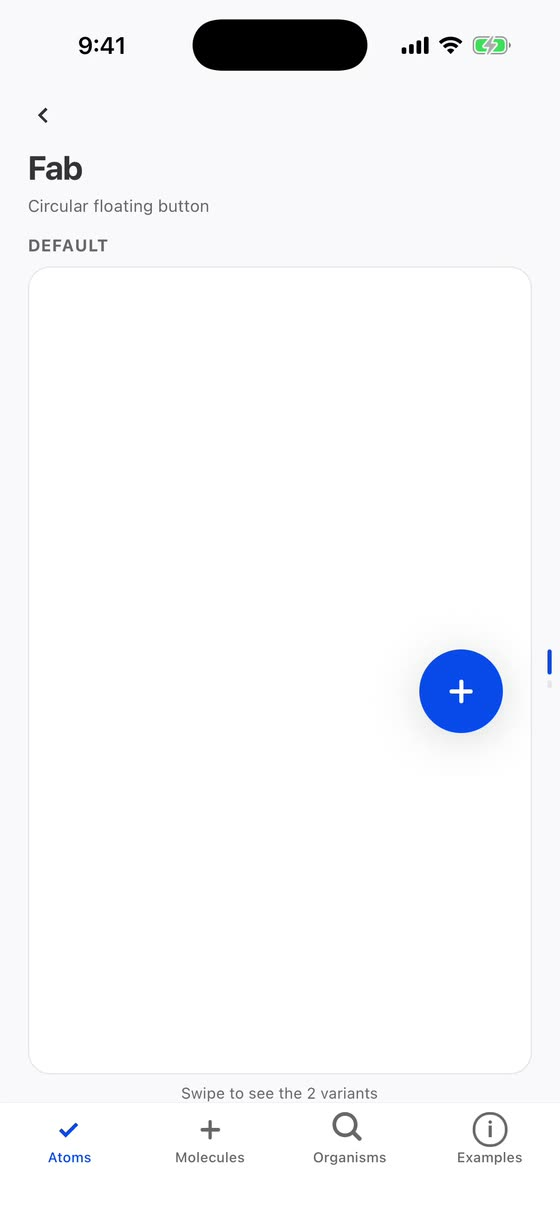
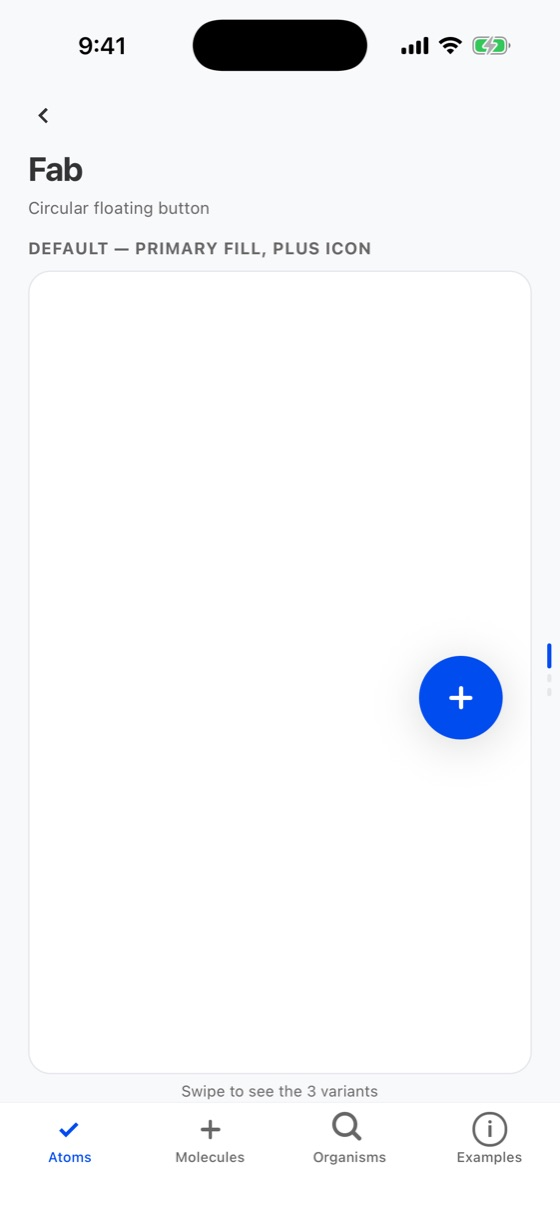
docs(fab): variant stills, Spanish props, changelog with migration step

diff --git a/src/data/changelog.ts b/src/data/changelog.ts
@@ -63,6 +63,15 @@ export const releases: Release[] = [
     changes: {
       breaking: [
         {
+          component: 'Fab',
+          items: [
+            {
+              en: 'By default the button now sits above the safe area (`bottom` + `insets.bottom`). If you added the inset yourself, drop it; above a tab bar, pass `safeArea={false}`.',
+              es: 'Por defecto el botón ahora queda por encima del safe area (`bottom` + `insets.bottom`). Si sumabas el inset a mano, quítalo; encima de una tab bar, pasa `safeArea={false}`.',
+            },
+          ],
+        },
+        {
           component: 'Setup',
           page: '/getting-started',
           items: [
@@ -188,6 +197,19 @@ export const releases: Release[] = [
             {
               en: '`testID`, and `style` accepts style arrays.',
               es: '`testID`, y `style` acepta arrays de estilos.',
+            },
+          ],
+        },
+        {
+          component: 'Fab',
+          items: [
+            {
+              en: '`safeArea` (default `true`) adds the safe-area insets to `bottom`/`right`, so the button clears the home indicator. Pass `false` above a NavigationBar or tab bar.',
+              es: '`safeArea` (por defecto `true`) suma los insets del safe area a `bottom`/`right`, así el botón no queda sobre la barra de inicio. Pasa `false` encima de un NavigationBar o tab bar.',
+            },
+            {
+              en: 'Adds `testID`.',
+              es: 'Se agrega `testID`.',
             },
           ],
         },
@@ -395,6 +417,15 @@ export const releases: Release[] = [
           ],
         },
         {
+          component: 'Fab',
+          items: [
+            {
+              en: 'With a custom `color`, the icon picks black or white for contrast (a light fill used to get a white, unreadable icon).',
+              es: 'Con un `color` propio, el ícono elige negro o blanco según el contraste (un relleno claro tenía un ícono blanco ilegible).',
+            },
+          ],
+        },
+        {
           component: 'Icons',
           page: '/components/icon-button',
           items: [
@@ -568,6 +599,18 @@ cd ios && pod install`,
   <UIProvider mode="system" insets={insets}>{app}</UIProvider>
 </SafeAreaProvider>`,
         after: `<UIProvider defaultMode="system">{app}</UIProvider>`,
+      },
+      {
+        title: {
+          en: 'Stop adding the inset to Fab',
+          es: 'Deja de sumar el inset al Fab',
+        },
+        body: {
+          en: 'Fab now clears the safe area on its own. Remove `insets.bottom` from `bottom`; if the Fab sits above a tab bar, pass `safeArea={false}` so the inset is not counted twice.',
+          es: 'Fab ahora respeta el safe area por sí solo. Quita `insets.bottom` de `bottom`; si el Fab está encima de una tab bar, pasa `safeArea={false}` para no contar el inset dos veces.',
+        },
+        before: `<Fab bottom={insets.bottom + 20} onPress={add} accessibilityLabel="Add" />`,
+        after: `<Fab onPress={add} accessibilityLabel="Add" />`,
       },
     ],
   },

diff --git a/demos/Fab.demo.tsx b/demos/Fab.demo.tsx
@@ -1,25 +1,49 @@
 import React from 'react';
 import { View } from 'react-native';
-import { Fab } from 'orn-ui';
+import { Fab, useColors } from 'orn-ui';
 import { VariantList, type VariantDef } from './VariantList';
+
+// En el catálogo el Fab vive dentro de una tarjeta, no al pie de la pantalla:
+// por eso safeArea={false} y bottom/right en 0. En una pantalla real se deja
+// el default y el botón queda por encima de la barra de inicio.
+function Frame({ children }: { children: React.ReactNode }) {
+  return <View style={{ height: 96 }}>{children}</View>;
+}
+
+function CustomColor() {
+  const colors = useColors();
+  return (
+    <Frame>
+      <Fab
+        onPress={() => {}}
+        accessibilityLabel="Add expense"
+        color={colors.warning}
+        safeArea={false}
+        bottom={0}
+        right={0}
+      />
+    </Frame>
+  );
+}
 
 export function FabDemo() {
   // #region demo
   const variants: VariantDef[] = [
     {
-      label: 'Default',
+      label: 'default — primary fill, plus icon',
       content: (
-        <View style={{ height: 90 }}>
-          <Fab onPress={() => {}} accessibilityLabel="Create invoice" bottom={0} right={0} />
-        </View>
+        <Frame>
+          <Fab onPress={() => {}} accessibilityLabel="Create invoice" safeArea={false} bottom={0} right={0} />
+        </Frame>
       ),
     },
+    { label: 'color — the icon picks black or white for contrast', content: <CustomColor /> },
     {
-      label: 'Custom',
+      label: 'size and iconName',
       content: (
-        <View style={{ height: 90 }}>
-          <Fab onPress={() => {}} accessibilityLabel="Search" iconName="search" color="#00cae1" size={48} bottom={0} right={0} />
-        </View>
+        <Frame>
+          <Fab onPress={() => {}} accessibilityLabel="Search" iconName="search" size={48} safeArea={false} bottom={0} right={0} />
+        </Frame>
       ),
     },
   ];
